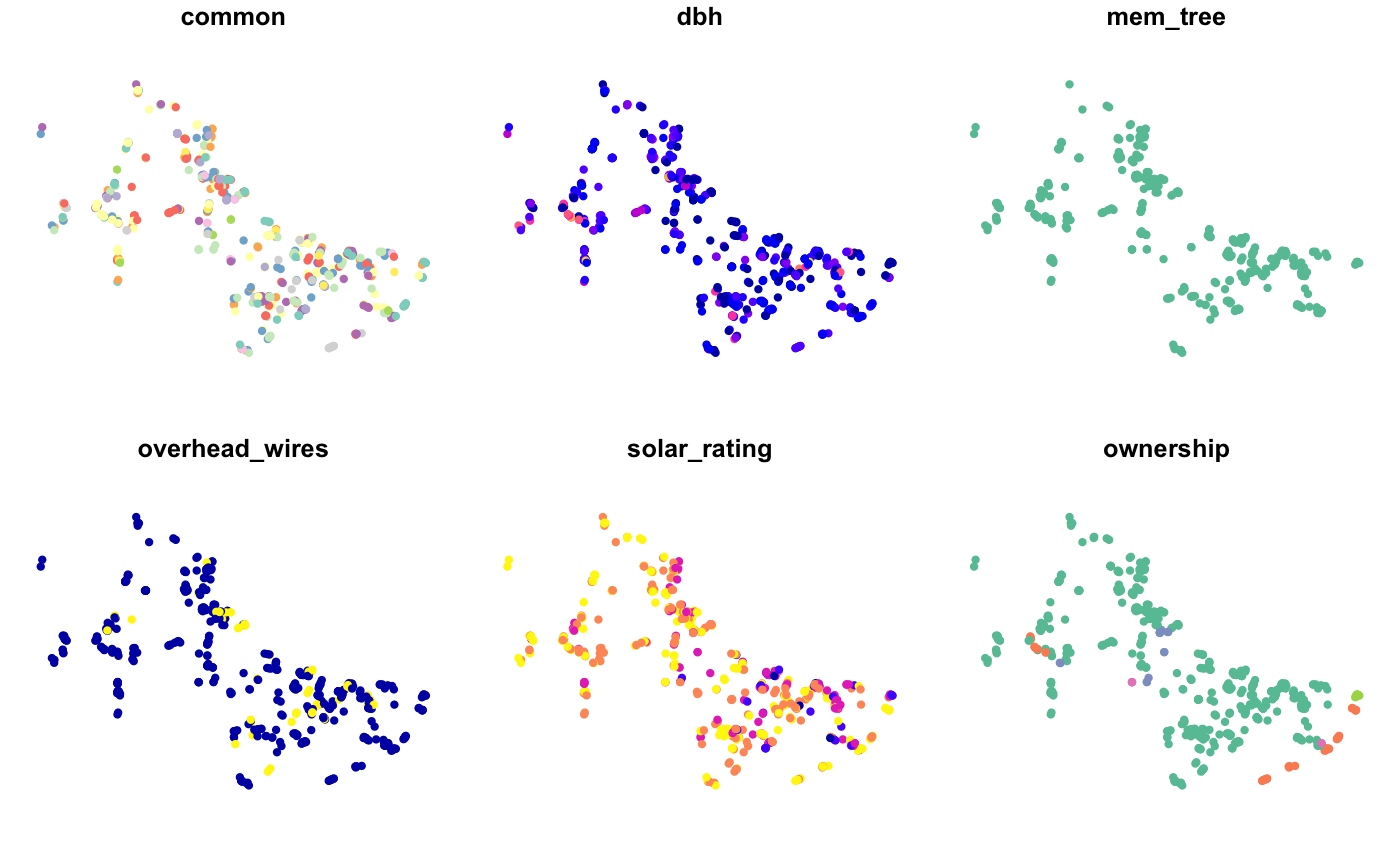
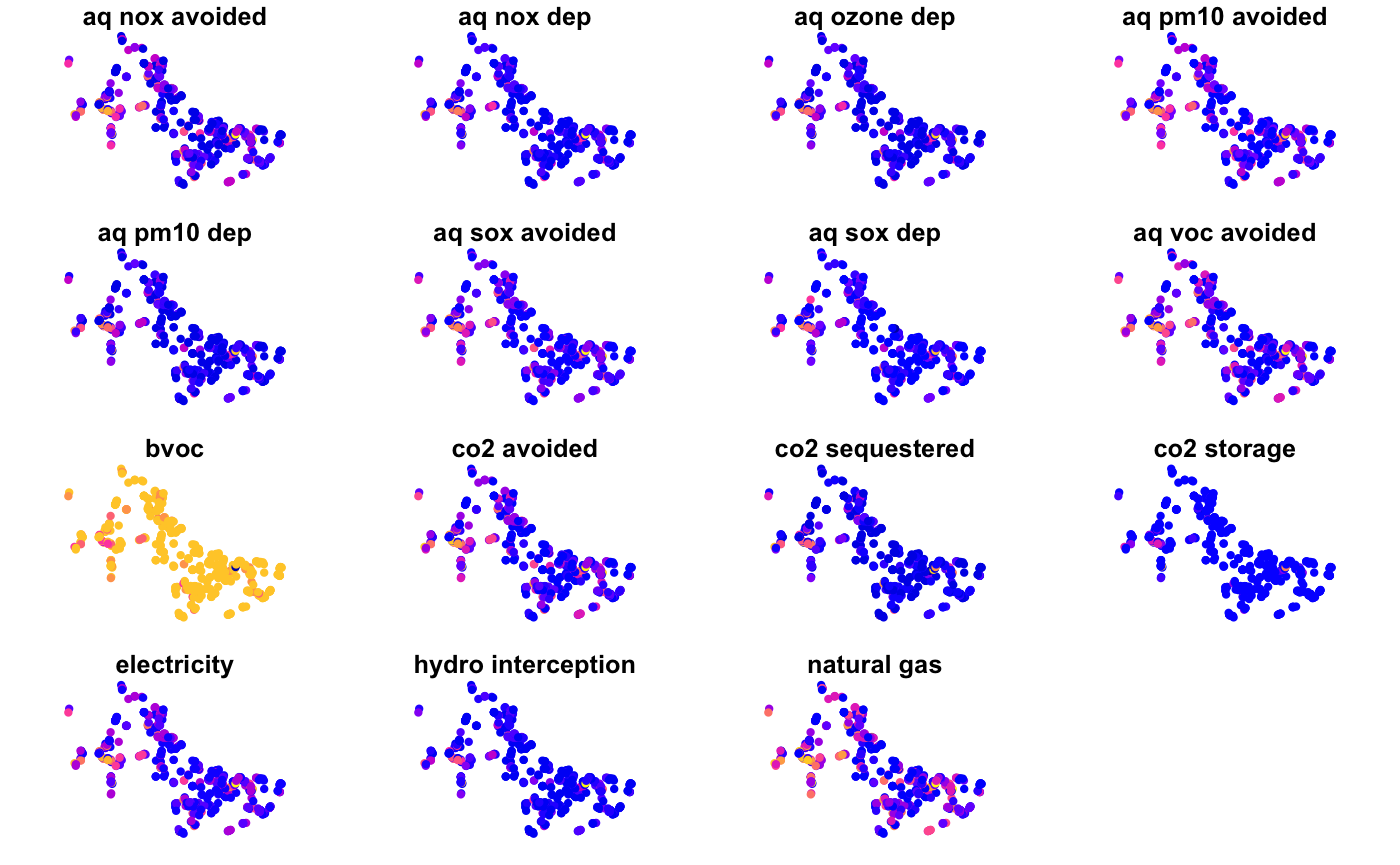
added another plot, added tidyr to suggests in description for spread func

diff --git a/docs/articles/mapping-with-treeco.html b/docs/articles/mapping-with-treeco.html
@@ -165,7 +165,7 @@
 <a class="sourceLine" id="cb2-11" data-line-number="11"><span class="co">#&gt; Gathering species matches...</span></a>
 <a class="sourceLine" id="cb2-12" data-line-number="12"><span class="co">#&gt; Gathering interpolation parameters...</span></a>
 <a class="sourceLine" id="cb2-13" data-line-number="13"><span class="co">#&gt; Interpolating benefits...</span></a>
-<a class="sourceLine" id="cb2-14" data-line-number="14"><span class="co">#&gt; Time difference of 0.5123911 secs</span></a>
+<a class="sourceLine" id="cb2-14" data-line-number="14"><span class="co">#&gt; Time difference of 0.478729 secs</span></a>
 <a class="sourceLine" id="cb2-15" data-line-number="15"></a>
 <a class="sourceLine" id="cb2-16" data-line-number="16"><span class="kw"><a href="http://dplyr.tidyverse.org/reference/reexports.html">as_tibble</a></span>(tree_benefits)</a>
 <a class="sourceLine" id="cb2-17" data-line-number="17"><span class="co">#&gt; # A tibble: 9,420 x 9</span></a>
@@ -203,11 +203,19 @@
 <h2 class="hasAnchor">
 <a href="#start-mapping" class="anchor"></a>Start mapping</h2>
 <p>So far we have: imported the data, calculated the benefits, and joined those benefits back to the original dataset. Now the fun begins, we can start visualizing the results.</p>
-<div class="sourceCode" id="cb4"><pre class="sourceCode r"><code class="sourceCode r"><a class="sourceLine" id="cb4-1" data-line-number="1">street_trees <span class="op">%&gt;%</span><span class="st"> </span></a>
-<a class="sourceLine" id="cb4-2" data-line-number="2"><span class="st">  </span><span class="kw"><a href="http://dplyr.tidyverse.org/reference/distinct.html">distinct</a></span>(rn, <span class="dt">.keep_all =</span> <span class="ot">TRUE</span>) <span class="op">%&gt;%</span><span class="st"> </span></a>
-<a class="sourceLine" id="cb4-3" data-line-number="3"><span class="st">  </span><span class="kw"><a href="http://dplyr.tidyverse.org/reference/select.html">select</a></span>(common, dbh, mem_tree, overhead_wires, solar_rating, ownership, geometry) <span class="op">%&gt;%</span><span class="st"> </span></a>
-<a class="sourceLine" id="cb4-4" data-line-number="4"><span class="st">  </span><span class="kw"><a href="http://www.rdocumentation.org/packages/sf/topics/plot">plot</a></span>(<span class="dt">pch =</span> <span class="dv">20</span>)</a></code></pre></div>
+<div class="sourceCode" id="cb4"><pre class="sourceCode r"><code class="sourceCode r"><a class="sourceLine" id="cb4-1" data-line-number="1"><span class="kw">library</span>(tidyr)</a>
+<a class="sourceLine" id="cb4-2" data-line-number="2"></a>
+<a class="sourceLine" id="cb4-3" data-line-number="3">street_trees <span class="op">%&gt;%</span><span class="st"> </span></a>
+<a class="sourceLine" id="cb4-4" data-line-number="4"><span class="st">  </span><span class="kw"><a href="http://dplyr.tidyverse.org/reference/select.html">select</a></span>(rn, common, benefit, benefit_value, geometry) <span class="op">%&gt;%</span></a>
+<a class="sourceLine" id="cb4-5" data-line-number="5"><span class="st">  </span><span class="kw"><a href="http://www.rdocumentation.org/packages/tidyr/topics/spread">spread</a></span>(<span class="dt">key =</span> benefit, <span class="dt">value =</span> benefit_value) <span class="op">%&gt;%</span><span class="st"> </span></a>
+<a class="sourceLine" id="cb4-6" data-line-number="6"><span class="st">  </span><span class="kw"><a href="http://dplyr.tidyverse.org/reference/select.html">select</a></span>(<span class="op">-</span><span class="kw">c</span>(rn, common)) <span class="op">%&gt;%</span><span class="st"> </span></a>
+<a class="sourceLine" id="cb4-7" data-line-number="7"><span class="st">  </span><span class="kw"><a href="http://www.rdocumentation.org/packages/sf/topics/plot">plot</a></span>(<span class="dt">max.plot =</span> <span class="dv">15</span>, <span class="dt">pch =</span> <span class="dv">20</span>)</a></code></pre></div>
 <p><img src="mapping-with-treeco_files/figure-html/unnamed-chunk-4-1.png" width="700"></p>
+<div class="sourceCode" id="cb5"><pre class="sourceCode r"><code class="sourceCode r"><a class="sourceLine" id="cb5-1" data-line-number="1">street_trees <span class="op">%&gt;%</span><span class="st"> </span></a>
+<a class="sourceLine" id="cb5-2" data-line-number="2"><span class="st">  </span><span class="kw"><a href="http://dplyr.tidyverse.org/reference/distinct.html">distinct</a></span>(rn, <span class="dt">.keep_all =</span> <span class="ot">TRUE</span>) <span class="op">%&gt;%</span><span class="st"> </span></a>
+<a class="sourceLine" id="cb5-3" data-line-number="3"><span class="st">  </span><span class="kw"><a href="http://dplyr.tidyverse.org/reference/select.html">select</a></span>(common, dbh, mem_tree, overhead_wires, solar_rating, ownership, geometry) <span class="op">%&gt;%</span><span class="st"> </span></a>
+<a class="sourceLine" id="cb5-4" data-line-number="4"><span class="st">  </span><span class="kw"><a href="http://www.rdocumentation.org/packages/sf/topics/plot">plot</a></span>(<span class="dt">pch =</span> <span class="dv">20</span>)</a></code></pre></div>
+<p><img src="mapping-with-treeco_files/figure-html/unnamed-chunk-5-1.png" width="700"></p>
 </div>
   </div>
 
